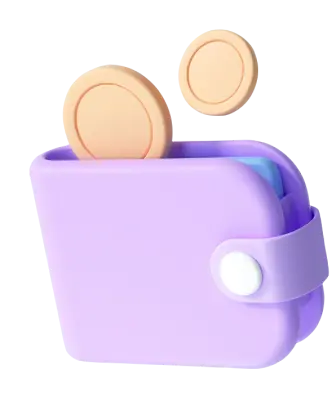
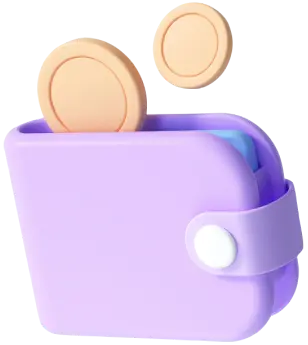
выровнял свайперы, починил горизонтальный скролл на планшете

Changed region(s): [[0.0, 0.0, 0.9935, 1.0]]

diff --git a/src/calculate/Calculate.js b/src/calculate/Calculate.js
@@ -34,19 +34,19 @@ export default function Calculate({ content }) {
                     <div className={"calculate__box"}>
                         <div className={"calculate__carousel"}>
                             <h3 className={"calculate__term"}>{content.carouselTitle}</h3>
-							<Swiper	{...settings.calculate}>
-								<ul className={"calculate__carousel-list"}>
-                            	    {content.carouselItems.map((carouselItem, id) =>
-                            	        <SwiperSlide>
-											<li className={`calculate__carousel-item calculate__carousel-item_${id}`}
-                            	            key={"item-" + id}>
-                            	            <button className={`calculate__carousel-button ${carouselItem.type === active ? 'calculate__carousel-button_active' : ''}`}
-													onClick={() => setActive(carouselItem.type)}
-                            	                    type={"button"}>{carouselItem.number}</button>
-                            	        	</li>
-										</SwiperSlide>)}
-                            	</ul>
-							</Swiper>
+														<Swiper	{...settings.calculate}>
+															<ul className={"calculate__carousel-list"}>
+              							      {content.carouselItems.map((carouselItem, id) =>
+              							          <SwiperSlide>
+																					<li className={`calculate__carousel-item calculate__carousel-item_${id}`}
+              							              	            key={"item-" + id}>
+              							              	    						<button className={`calculate__carousel-button ${carouselItem.type === active ? 'calculate__carousel-button_active' : ''}`}
+																																		onClick={() => setActive(carouselItem.type)}
+              							              	                   			type={"button"}>{carouselItem.number}</button>
+              							              </li>
+																	</SwiperSlide>)}
+              							              	</ul>
+														</Swiper>
                             <p className={"calculate__carousel-desc"}>{parse(content[active].desc)}</p>
                         </div>
                         <p className={"calculate__footnote"}>{content.calculateFootnote}</p>

diff --git a/src/winnings/Winnings.scss b/src/winnings/Winnings.scss
@@ -1,11 +1,25 @@
 .winnings {
+	overflow: hidden;
+
   &__container {
     @include container($DESKTOP, 0);
     @include option(padding, 0 45px, 0 16px, 0 32px);
 
-	.swiper {
-		overflow: visible;
-	}
+		.swiper {
+			overflow: visible;
+
+			.swiper-wrapper {
+				@media (min-width: $MIN-DESKTOP) {
+					justify-content: center;
+					gap: 34px;
+					padding: 85px 0 0;
+				}
+			}
+
+			.swiper-slide {
+				@include option(width, auto, 336px);
+			}
+		}
   }
 
   &__wrapper {
@@ -71,18 +85,14 @@
     justify-content: space-between;
 
     @include option(max-width, 350px, 320px);
-    @include option(min-height, auto, 360px);
+    @include option(min-height, 215px, 360px);
+		@include option(margin, 0, 0 0 32px, 37px 0 64px 0);
     @include option(padding, 0, 17px 25px 25px, 17px 25px 23px);
 
     @include option(font-size, 16px);
     @include option(font-weight, 400);
     @include option(line-height, 150%);
     color: $grey800;
-
-    // &_1,
-    // &_2 {
-    //   display: none;
-    // }
 
     &::before {
       content: "";

diff --git a/src/winnings/Winnings.js b/src/winnings/Winnings.js
@@ -15,16 +15,16 @@ export default function Winnings({ title, text, items, image}) {
                         <p className={"winnings__text"}>{text}</p>
                     </div>
                 </div>
-				<Swiper {...options.winning}>
-					<ul className={"winnings__list"}>
-                	    {items.map((item, id) =>
-							<SwiperSlide>
-								<li className={`winnings__item winnings__item_${id}`}>
-                	        		{parse(item)}
-                	    		</li>
-							</SwiperSlide>)}
-                	</ul>
-				</Swiper>
+								<Swiper {...options.winning}>
+									<ul className={"winnings__list"}>
+        				      {items.map((item, id) =>
+													<SwiperSlide>
+															<li className={`winnings__item winnings__item_${id}`}>
+        				        	        {parse(item)}
+        				        	    </li>
+													</SwiperSlide>)}
+        				  </ul>
+								</Swiper>
             </div>
         </section>
     );

diff --git a/src/calculate/Calculate.scss b/src/calculate/Calculate.scss
@@ -33,11 +33,11 @@
 
   &__image {
     position: absolute;
-    @include option(top, -20.8%, -13.7%, -17.8%);
-    @include option(right, 3.3%, 0.5%, -7.3%);
+    @include option(top, -20.8%, -13.7%, -75px);
+    @include option(right, 3.3%, 0.5%, -32px);
     z-index: 1;
 
-    @include option(max-width, 330px, 169px, 241px);
+    @include option(max-width, 330px, 169px, 205px);
     width: 100%;
 
     img {
@@ -139,18 +139,16 @@
   &__carousel {
     @include option(padding, 25px 0 0, 25px 7px 0);
 
-	.swiper-slide {
-		width: auto;
-		// @include option(margin, 0, 0 6px 0 0, 0);
-		@include option(padding, 0, 16px 0 0, 0);
-	}
+		.swiper-slide {
+			width: auto;
+			@include option(padding, 15px 0 0, 16px 0 0, 15px 0 0);
+		}
   }
 
   &__carousel-list {
     display: flex;
     gap: 6px;
     @include option(padding, 15px 0 0);
-    // white-space: nowrap;
   }
 
   &__carousel-button {

diff --git a/src/map/Map.scss b/src/map/Map.scss
@@ -34,7 +34,7 @@
     justify-content: center;
     @include option(max-width, 1122px, 295px, 656px);
     margin: 0 auto;
-    @include option(padding, 58px 0 56px 4px, 25px 0 70px 0, 20px 0 45px 0);
+    @include option(padding, 58px 0 54px 4px, 25px 0 70px 0, 20px 0 45px 0);
   }
 
 	&__image-world {

diff --git a/src/pay/Pay.scss b/src/pay/Pay.scss
@@ -1,5 +1,5 @@
 .pay {
-	@include option(margin, 80px 0 0, 32px 0 0, 64px 0 0);
+	@include option(margin, 80px 0 0, -2px 0 0, 0);
 	background: linear-gradient(180deg, #f8f8f8 0%, rgba(248, 248, 248, 0) 100%);
 
 	&__container {

diff --git a/src/constants/carousel-settings.js b/src/constants/carousel-settings.js
@@ -8,6 +8,6 @@ export const settings = {
 export const options = {
 	winning: {
 		slidesPerView: 'auto',
-		spaceBetween: '-7'
+		spaceBetween: '0'
 	}
 }
